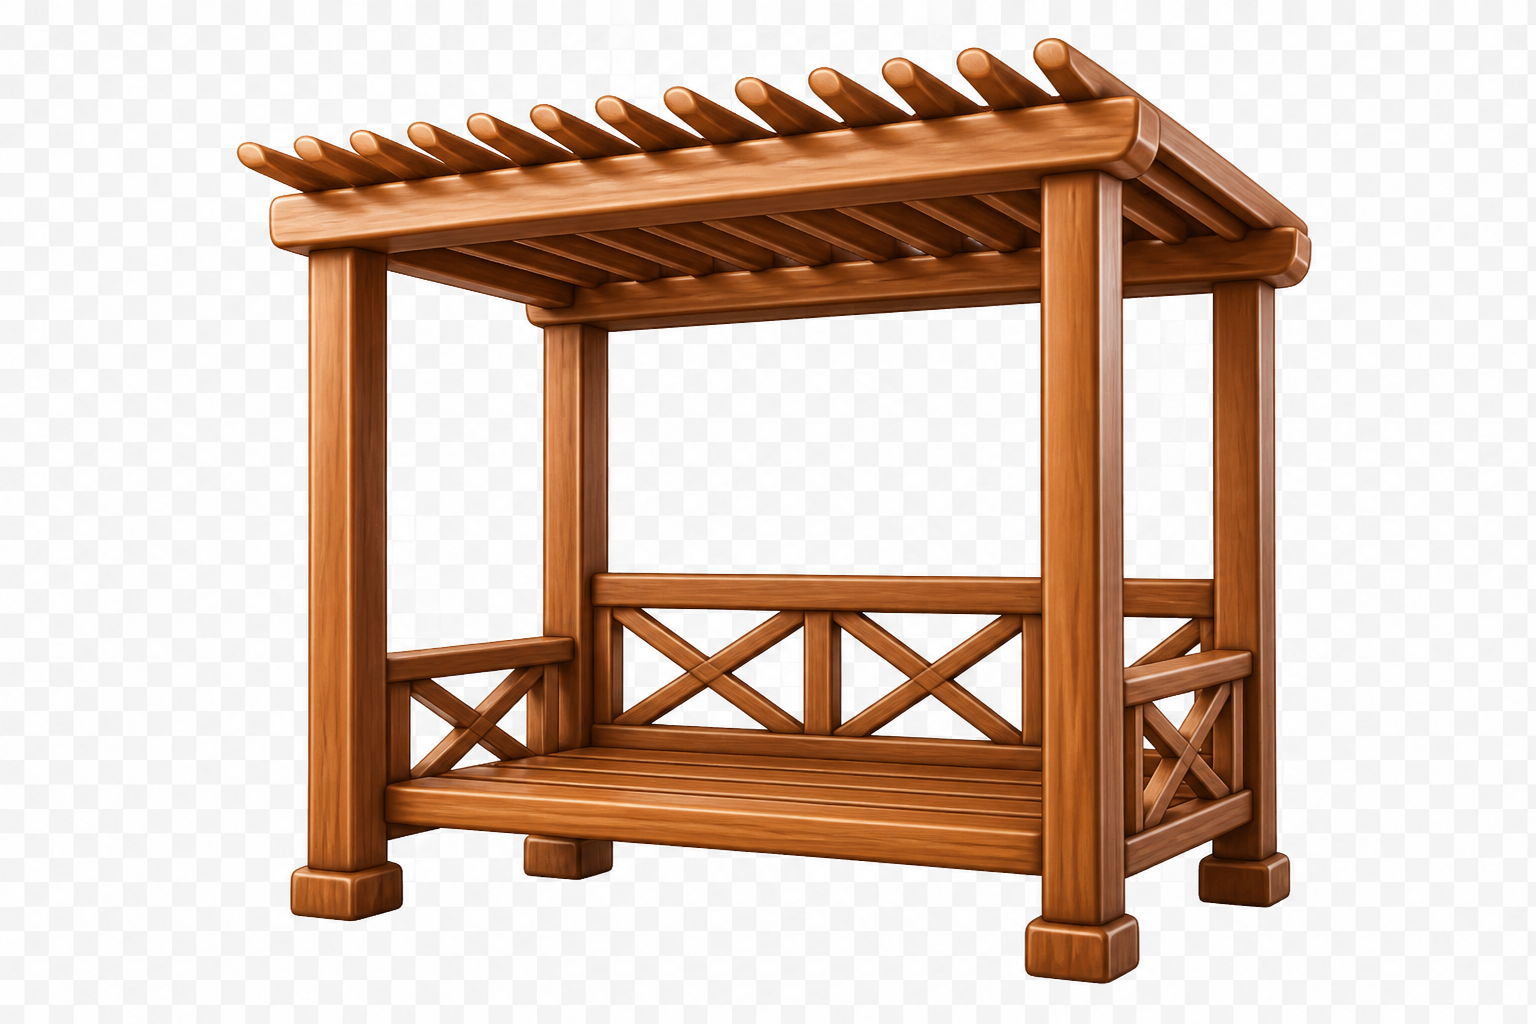
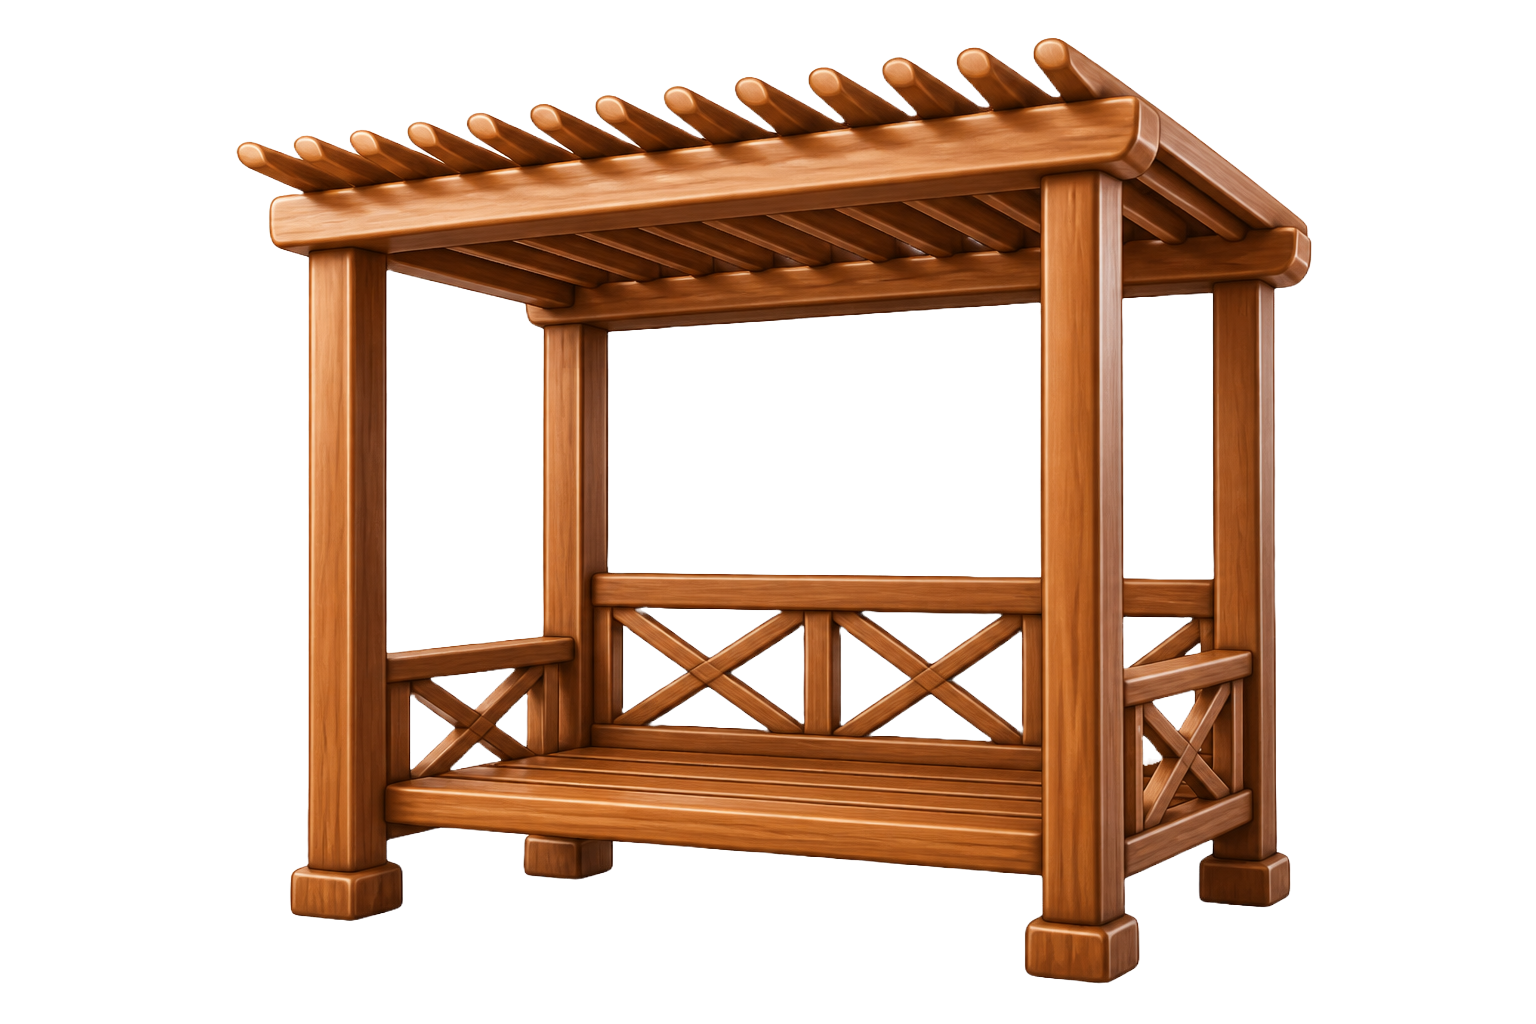
changes

diff --git a/src/App.tsx b/src/App.tsx
@@ -133,6 +133,7 @@ export const App = function App() {
   const cardakRef = useRef<HTMLImageElement | null>(null)
   const [calendarLeadSpacerPx, setCalendarLeadSpacerPx] = useState(1)
   const [letterSectionMounted, setLetterSectionMounted] = useState(false)
+  const bgMusicStartedRef = useRef(false)
 
   const handleIntroDone = useCallback(() => {
     setHeaderLogoLocked(true)
@@ -181,6 +182,38 @@ export const App = function App() {
     const last = new Image()
     last.src = SALON_GECE_FRAMES[SALON_GECE_FRAME_COUNT - 1]!
   }, [firstScrollDone])
+
+  useEffect(() => {
+    const audio = new Audio(ASSETS.bgMusic)
+    audio.loop = true
+    audio.volume = 0.35
+    audio.preload = 'auto'
+
+    const startBgMusic = () => {
+      if (bgMusicStartedRef.current) return
+      void audio
+        .play()
+        .then(() => {
+          bgMusicStartedRef.current = true
+        })
+        .catch(() => {})
+    }
+
+    window.addEventListener('pointerdown', startBgMusic, { passive: true })
+    window.addEventListener('keydown', startBgMusic, { passive: true })
+    window.addEventListener('wheel', startBgMusic, { passive: true })
+    window.addEventListener('touchstart', startBgMusic, { passive: true })
+
+    return () => {
+      audio.pause()
+      audio.src = ''
+      bgMusicStartedRef.current = false
+      window.removeEventListener('pointerdown', startBgMusic)
+      window.removeEventListener('keydown', startBgMusic)
+      window.removeEventListener('wheel', startBgMusic)
+      window.removeEventListener('touchstart', startBgMusic)
+    }
+  }, [])
 
   useEffect(() => {
     if (firstScrollDone) return
@@ -488,6 +521,7 @@ export const App = function App() {
       >
         İçeriğe geç
       </a>
+
       <div className="pointer-events-none fixed inset-0 z-0" style={{ backgroundColor: REVEAL_BG }} aria-hidden />
 
       <div

diff --git a/src/config/assets.ts b/src/config/assets.ts
@@ -20,6 +20,8 @@ export const ASSETS = {
   scrollKlingHero: '/assets/scroll-kling-hero.mp4',
   /** Video ile birlikte kısık ses (Mor ve Ötesi — Daha Mutlu Olamam) */
   dahaMutluOlamam: '/assets/daha-mutlu-olamam.mp3',
+  /** Arka plan müziği — tüm site boyunca loop */
+  bgMusic: '/assets/sarki.mp3',
   /** Takvim bölümü — şeffaf arka planlı PNG (`public/assets/section-calendar-03.png`) */
   sectionCalendar03: '/assets/section-calendar-03.png',
   /** Anime konser kalabalığı — 2K arka plan */